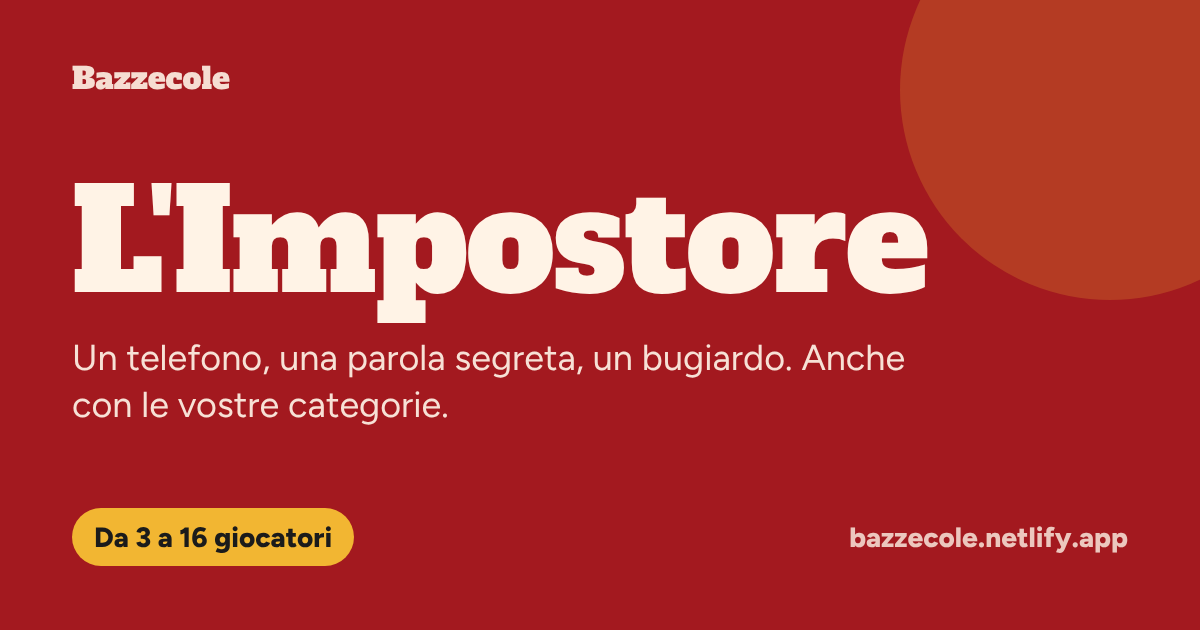
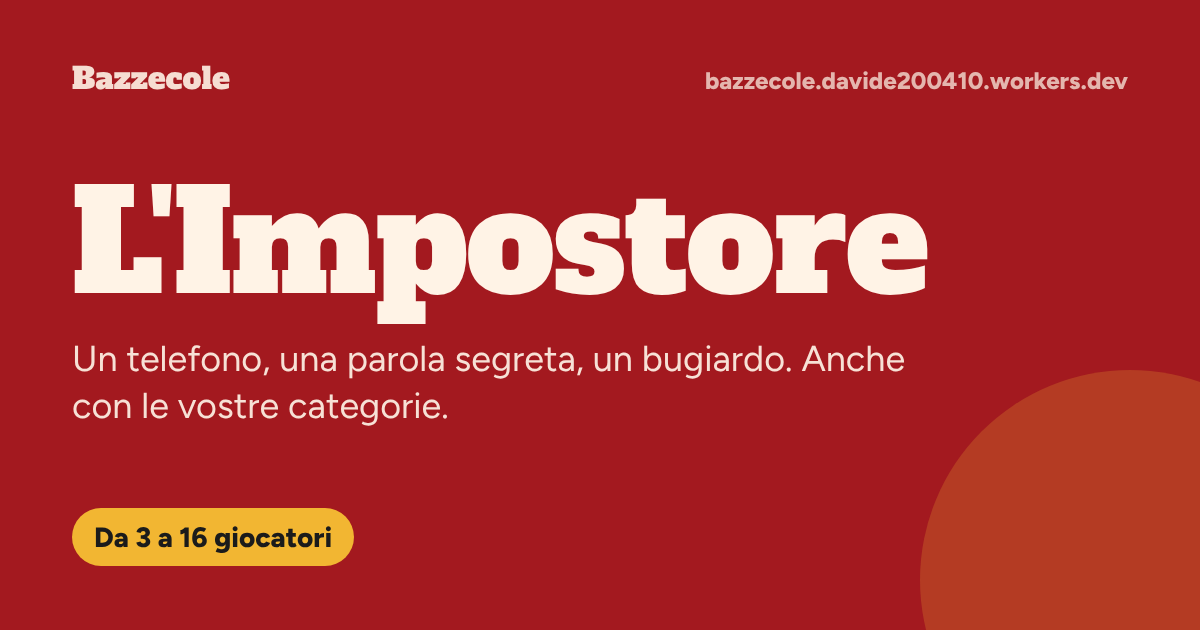
Passaggio a Cloudflare: indirizzi, sitemap, anteprime e configurazione
Claude-Session: https://claude.ai/code/session_01FMyduUsgWzfSn1egDcu9mq

diff --git a/index.html b/index.html
@@ -9,16 +9,16 @@
 <meta property="og:description" content="Piccoli giochi e sciocchezze da condividere. Fatto a Bologna.">
 <meta property="og:type" content="website">
 <meta name="theme-color" content="#E39B2E">
-<link rel="canonical" href="https://bazzecole.netlify.app/">
-<meta property="og:url" content="https://bazzecole.netlify.app/">
+<link rel="canonical" href="https://bazzecole.davide200410.workers.dev/">
+<meta property="og:url" content="https://bazzecole.davide200410.workers.dev/">
 <meta property="og:site_name" content="Bazzecole">
 <meta property="og:locale" content="it_IT">
-<meta property="og:image" content="https://bazzecole.netlify.app/og/home.png">
+<meta property="og:image" content="https://bazzecole.davide200410.workers.dev/og/home.png">
 <meta property="og:image:width" content="1200">
 <meta property="og:image:height" content="630">
 <meta name="twitter:card" content="summary_large_image">
-<meta name="twitter:image" content="https://bazzecole.netlify.app/og/home.png">
-<script type="application/ld+json">{"@context":"https://schema.org","@type":"WebSite","name":"Bazzecole","url":"https://bazzecole.netlify.app/","inLanguage":"it","description":"Giochini e sciocchezze da fare in compagnia o da mandare agli amici. Gratis, senza app."}</script>
+<meta name="twitter:image" content="https://bazzecole.davide200410.workers.dev/og/home.png">
+<script type="application/ld+json">{"@context":"https://schema.org","@type":"WebSite","name":"Bazzecole","url":"https://bazzecole.davide200410.workers.dev/","inLanguage":"it","description":"Giochini e sciocchezze da fare in compagnia o da mandare agli amici. Gratis, senza app."}</script>
 <link rel="icon" href="/favicon.svg" type="image/svg+xml">
 <link rel="stylesheet" href="/fonts/fonts.css">
 <style>

diff --git a/privacy/index.html b/privacy/index.html
@@ -6,18 +6,18 @@
 <title>Privacy e note legali · Bazzecole</title>
 <meta name="description" content="Informativa privacy e note legali di Bazzecole: niente cookie, niente tracciamento, niente registrazione.">
 <meta name="theme-color" content="#E39B2E">
-<link rel="canonical" href="https://bazzecole.netlify.app/privacy/">
+<link rel="canonical" href="https://bazzecole.davide200410.workers.dev/privacy/">
 <meta property="og:title" content="Privacy e note legali · Bazzecole">
 <meta property="og:description" content="Informativa privacy e note legali di Bazzecole: niente cookie, niente tracciamento, niente registrazione.">
 <meta property="og:type" content="website">
-<meta property="og:url" content="https://bazzecole.netlify.app/privacy/">
+<meta property="og:url" content="https://bazzecole.davide200410.workers.dev/privacy/">
 <meta property="og:site_name" content="Bazzecole">
 <meta property="og:locale" content="it_IT">
-<meta property="og:image" content="https://bazzecole.netlify.app/og/home.png">
+<meta property="og:image" content="https://bazzecole.davide200410.workers.dev/og/home.png">
 <meta property="og:image:width" content="1200">
 <meta property="og:image:height" content="630">
 <meta name="twitter:card" content="summary_large_image">
-<meta name="twitter:image" content="https://bazzecole.netlify.app/og/home.png">
+<meta name="twitter:image" content="https://bazzecole.davide200410.workers.dev/og/home.png">
 <link rel="icon" href="/favicon.svg" type="image/svg+xml">
 <link rel="stylesheet" href="/fonts/fonts.css">
 <style>

diff --git a/cinquina/index.html b/cinquina/index.html
@@ -9,15 +9,15 @@
 <meta property="og:description" content="Cinque lettere, sei tentativi, una parola al giorno. Tu in quanti la trovi?">
 <meta property="og:type" content="website">
 <meta name="theme-color" content="#FBFBF7">
-<link rel="canonical" href="https://bazzecole.netlify.app/cinquina/">
-<meta property="og:url" content="https://bazzecole.netlify.app/cinquina/">
+<link rel="canonical" href="https://bazzecole.davide200410.workers.dev/cinquina/">
+<meta property="og:url" content="https://bazzecole.davide200410.workers.dev/cinquina/">
 <meta property="og:site_name" content="Bazzecole">
 <meta property="og:locale" content="it_IT">
-<meta property="og:image" content="https://bazzecole.netlify.app/og/cinquina.png">
+<meta property="og:image" content="https://bazzecole.davide200410.workers.dev/og/cinquina.png">
 <meta property="og:image:width" content="1200">
 <meta property="og:image:height" content="630">
 <meta name="twitter:card" content="summary_large_image">
-<meta name="twitter:image" content="https://bazzecole.netlify.app/og/cinquina.png">
+<meta name="twitter:image" content="https://bazzecole.davide200410.workers.dev/og/cinquina.png">
 <link rel="icon" href="/favicon.svg" type="image/svg+xml">
 <link rel="stylesheet" href="/fonts/fonts.css">
 <style>

diff --git a/piatti/index.html b/piatti/index.html
@@ -9,15 +9,15 @@
 <meta property="og:description" content="La ruota dei turni per coinquilini, famiglie e amici. Nessuna discussione, solo sfortuna.">
 <meta property="og:type" content="website">
 <meta name="theme-color" content="#F4F6F8">
-<link rel="canonical" href="https://bazzecole.netlify.app/piatti/">
-<meta property="og:url" content="https://bazzecole.netlify.app/piatti/">
+<link rel="canonical" href="https://bazzecole.davide200410.workers.dev/piatti/">
+<meta property="og:url" content="https://bazzecole.davide200410.workers.dev/piatti/">
 <meta property="og:site_name" content="Bazzecole">
 <meta property="og:locale" content="it_IT">
-<meta property="og:image" content="https://bazzecole.netlify.app/og/piatti.png">
+<meta property="og:image" content="https://bazzecole.davide200410.workers.dev/og/piatti.png">
 <meta property="og:image:width" content="1200">
 <meta property="og:image:height" content="630">
 <meta name="twitter:card" content="summary_large_image">
-<meta name="twitter:image" content="https://bazzecole.netlify.app/og/piatti.png">
+<meta name="twitter:image" content="https://bazzecole.davide200410.workers.dev/og/piatti.png">
 <link rel="icon" href="/favicon.svg" type="image/svg+xml">
 <link rel="stylesheet" href="/fonts/fonts.css">
 <style>

diff --git a/impostore/index.html b/impostore/index.html
@@ -9,15 +9,15 @@
 <meta property="og:description" content="Un telefono, una parola segreta, un bugiardo. Gratis, senza app.">
 <meta property="og:type" content="website">
 <meta name="theme-color" content="#A3191F">
-<link rel="canonical" href="https://bazzecole.netlify.app/impostore/">
-<meta property="og:url" content="https://bazzecole.netlify.app/impostore/">
+<link rel="canonical" href="https://bazzecole.davide200410.workers.dev/impostore/">
+<meta property="og:url" content="https://bazzecole.davide200410.workers.dev/impostore/">
 <meta property="og:site_name" content="Bazzecole">
 <meta property="og:locale" content="it_IT">
-<meta property="og:image" content="https://bazzecole.netlify.app/og/impostore.png">
+<meta property="og:image" content="https://bazzecole.davide200410.workers.dev/og/impostore.png">
 <meta property="og:image:width" content="1200">
 <meta property="og:image:height" content="630">
 <meta name="twitter:card" content="summary_large_image">
-<meta name="twitter:image" content="https://bazzecole.netlify.app/og/impostore.png">
+<meta name="twitter:image" content="https://bazzecole.davide200410.workers.dev/og/impostore.png">
 <link rel="icon" href="/favicon.svg" type="image/svg+xml">
 <link rel="stylesheet" href="/fonts/fonts.css">
 <style>

diff --git a/stanza/index.html b/stanza/index.html
@@ -9,15 +9,15 @@
 <meta property="og:description" content="30 giorni, un budget e una pazienza limitata. Sopravvivi agli annunci sotto i portici?">
 <meta property="og:type" content="website">
 <meta name="theme-color" content="#B8462F">
-<link rel="canonical" href="https://bazzecole.netlify.app/stanza/">
-<meta property="og:url" content="https://bazzecole.netlify.app/stanza/">
+<link rel="canonical" href="https://bazzecole.davide200410.workers.dev/stanza/">
+<meta property="og:url" content="https://bazzecole.davide200410.workers.dev/stanza/">
 <meta property="og:site_name" content="Bazzecole">
 <meta property="og:locale" content="it_IT">
-<meta property="og:image" content="https://bazzecole.netlify.app/og/stanza.png">
+<meta property="og:image" content="https://bazzecole.davide200410.workers.dev/og/stanza.png">
 <meta property="og:image:width" content="1200">
 <meta property="og:image:height" content="630">
 <meta name="twitter:card" content="summary_large_image">
-<meta name="twitter:image" content="https://bazzecole.netlify.app/og/stanza.png">
+<meta name="twitter:image" content="https://bazzecole.davide200410.workers.dev/og/stanza.png">
 <link rel="icon" href="/favicon.svg" type="image/svg+xml">
 <link rel="stylesheet" href="/fonts/fonts.css">
 <style>

diff --git a/tombola/index.html b/tombola/index.html
@@ -9,15 +9,15 @@
 <meta property="og:description" content="Uno estrae, gli altri giocano dal telefono o su carta. Gratis, senza app.">
 <meta property="og:type" content="website">
 <meta name="theme-color" content="#1F4D3A">
-<link rel="canonical" href="https://bazzecole.netlify.app/tombola/">
-<meta property="og:url" content="https://bazzecole.netlify.app/tombola/">
+<link rel="canonical" href="https://bazzecole.davide200410.workers.dev/tombola/">
+<meta property="og:url" content="https://bazzecole.davide200410.workers.dev/tombola/">
 <meta property="og:site_name" content="Bazzecole">
 <meta property="og:locale" content="it_IT">
-<meta property="og:image" content="https://bazzecole.netlify.app/og/tombola.png">
+<meta property="og:image" content="https://bazzecole.davide200410.workers.dev/og/tombola.png">
 <meta property="og:image:width" content="1200">
 <meta property="og:image:height" content="630">
 <meta name="twitter:card" content="summary_large_image">
-<meta name="twitter:image" content="https://bazzecole.netlify.app/og/tombola.png">
+<meta name="twitter:image" content="https://bazzecole.davide200410.workers.dev/og/tombola.png">
 <link rel="icon" href="/favicon.svg" type="image/svg+xml">
 <link rel="stylesheet" href="/fonts/fonts.css">
 <style>

diff --git a/scuse/index.html b/scuse/index.html
@@ -9,15 +9,15 @@
 <meta property="og:description" content="Credibili, così così o assurde. Pronte da mandare. Usare con moderazione.">
 <meta property="og:type" content="website">
 <meta name="theme-color" content="#DDE3EA">
-<link rel="canonical" href="https://bazzecole.netlify.app/scuse/">
-<meta property="og:url" content="https://bazzecole.netlify.app/scuse/">
+<link rel="canonical" href="https://bazzecole.davide200410.workers.dev/scuse/">
+<meta property="og:url" content="https://bazzecole.davide200410.workers.dev/scuse/">
 <meta property="og:site_name" content="Bazzecole">
 <meta property="og:locale" content="it_IT">
-<meta property="og:image" content="https://bazzecole.netlify.app/og/scuse.png">
+<meta property="og:image" content="https://bazzecole.davide200410.workers.dev/og/scuse.png">
 <meta property="og:image:width" content="1200">
 <meta property="og:image:height" content="630">
 <meta name="twitter:card" content="summary_large_image">
-<meta name="twitter:image" content="https://bazzecole.netlify.app/og/scuse.png">
+<meta name="twitter:image" content="https://bazzecole.davide200410.workers.dev/og/scuse.png">
 <link rel="icon" href="/favicon.svg" type="image/svg+xml">
 <link rel="stylesheet" href="/fonts/fonts.css">
 <style>

diff --git a/treni/index.html b/treni/index.html
@@ -9,15 +9,15 @@
 <meta property="og:description" content="Giorni, ore e minuti della tua vita passati ad aspettare treni in ritardo.">
 <meta property="og:type" content="website">
 <meta name="theme-color" content="#121418">
-<link rel="canonical" href="https://bazzecole.netlify.app/treni/">
-<meta property="og:url" content="https://bazzecole.netlify.app/treni/">
+<link rel="canonical" href="https://bazzecole.davide200410.workers.dev/treni/">
+<meta property="og:url" content="https://bazzecole.davide200410.workers.dev/treni/">
 <meta property="og:site_name" content="Bazzecole">
 <meta property="og:locale" content="it_IT">
-<meta property="og:image" content="https://bazzecole.netlify.app/og/treni.png">
+<meta property="og:image" content="https://bazzecole.davide200410.workers.dev/og/treni.png">
 <meta property="og:image:width" content="1200">
 <meta property="og:image:height" content="630">
 <meta name="twitter:card" content="summary_large_image">
-<meta name="twitter:image" content="https://bazzecole.netlify.app/og/treni.png">
+<meta name="twitter:image" content="https://bazzecole.davide200410.workers.dev/og/treni.png">
 <link rel="icon" href="/favicon.svg" type="image/svg+xml">
 <link rel="stylesheet" href="/fonts/fonts.css">
 <style>

diff --git a/parola/index.html b/parola/index.html
@@ -9,15 +9,15 @@
 <meta property="og:description" content="Gratis, senza app, con categorie italiane e le vostre parole.">
 <meta property="og:type" content="website">
 <meta name="theme-color" content="#2340A0">
-<link rel="canonical" href="https://bazzecole.netlify.app/parola/">
-<meta property="og:url" content="https://bazzecole.netlify.app/parola/">
+<link rel="canonical" href="https://bazzecole.davide200410.workers.dev/parola/">
+<meta property="og:url" content="https://bazzecole.davide200410.workers.dev/parola/">
 <meta property="og:site_name" content="Bazzecole">
 <meta property="og:locale" content="it_IT">
-<meta property="og:image" content="https://bazzecole.netlify.app/og/parola.png">
+<meta property="og:image" content="https://bazzecole.davide200410.workers.dev/og/parola.png">
 <meta property="og:image:width" content="1200">
 <meta property="og:image:height" content="630">
 <meta name="twitter:card" content="summary_large_image">
-<meta name="twitter:image" content="https://bazzecole.netlify.app/og/parola.png">
+<meta name="twitter:image" content="https://bazzecole.davide200410.workers.dev/og/parola.png">
 <link rel="icon" href="/favicon.svg" type="image/svg+xml">
 <link rel="stylesheet" href="/fonts/fonts.css">
 <style>

diff --git a/caffe/index.html b/caffe/index.html
@@ -9,15 +9,15 @@
 <meta property="og:description" content="Tazzine, euro spesi al bar, litri di espresso. Ecco lo scontrino.">
 <meta property="og:type" content="website">
 <meta name="theme-color" content="#3A2216">
-<link rel="canonical" href="https://bazzecole.netlify.app/caffe/">
-<meta property="og:url" content="https://bazzecole.netlify.app/caffe/">
+<link rel="canonical" href="https://bazzecole.davide200410.workers.dev/caffe/">
+<meta property="og:url" content="https://bazzecole.davide200410.workers.dev/caffe/">
 <meta property="og:site_name" content="Bazzecole">
 <meta property="og:locale" content="it_IT">
-<meta property="og:image" content="https://bazzecole.netlify.app/og/caffe.png">
+<meta property="og:image" content="https://bazzecole.davide200410.workers.dev/og/caffe.png">
 <meta property="og:image:width" content="1200">
 <meta property="og:image:height" content="630">
 <meta name="twitter:card" content="summary_large_image">
-<meta name="twitter:image" content="https://bazzecole.netlify.app/og/caffe.png">
+<meta name="twitter:image" content="https://bazzecole.davide200410.workers.dev/og/caffe.png">
 <link rel="icon" href="/favicon.svg" type="image/svg+xml">
 <link rel="stylesheet" href="/fonts/fonts.css">
 <style>

diff --git a/README.md b/README.md
@@ -39,7 +39,10 @@ poi apri http://localhost:8000
 
 ## Pubblicazione
 
-Il repository è collegato a Netlify: ogni push su `main` va online da solo.
+Il sito è pubblicato su Cloudflare Workers (file statici, configurazione in `wrangler.jsonc`, file esclusi in `.assetsignore`): ogni push su `main` va online da solo.
+Indirizzo: https://bazzecole.davide200410.workers.dev
+
+Per non sprecare pubblicazioni, meglio raccogliere le modifiche e fare un solo push alla volta.
 
 ## Linee guida grafiche
 
